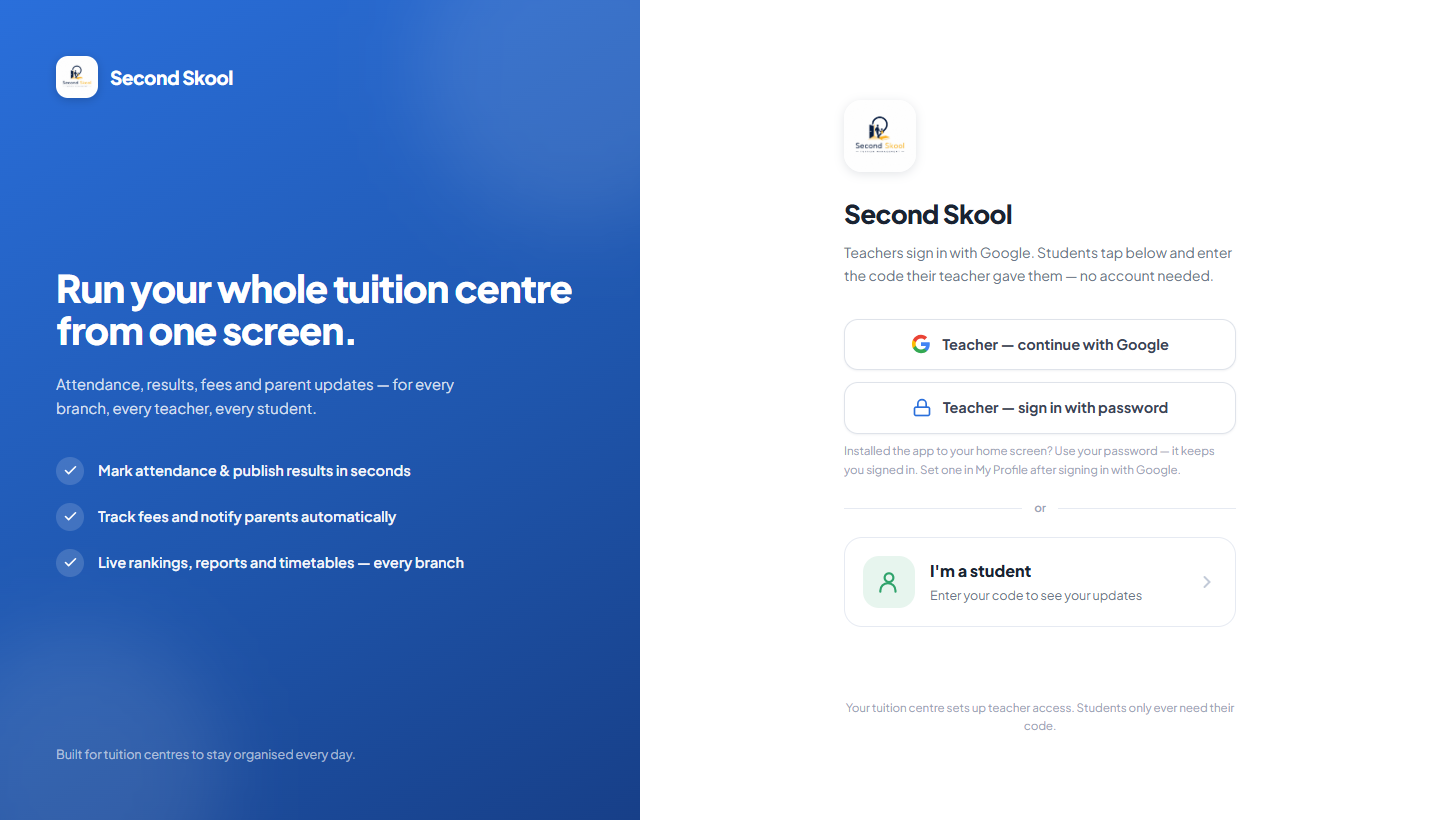
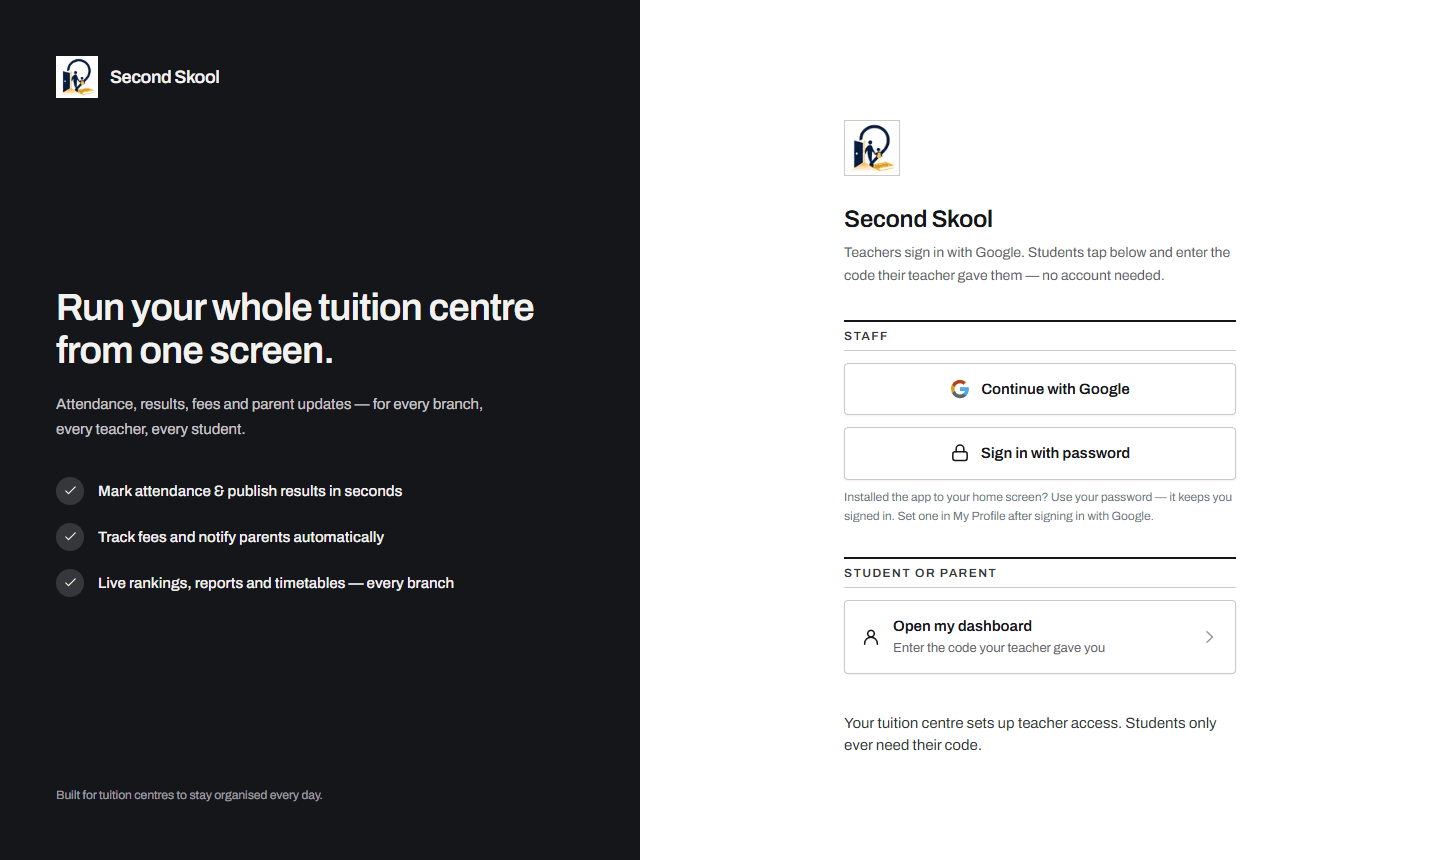
docs: the README shows the app as it looks now, including the parent dashboard
- The four screenshots were from the old blue UI. Sign-in, code entry and
  the desktop header are re-shot in the current look.
- New: what a parent sees after typing a code - home, attendance,
  results, ranking, fees and timetable. Real screens on a phone viewport,
  filled with sample data; no live database was touched.
- The 404 screenshot is gone; nobody chooses a tool for its 404 page.
- Images are palette-compressed: 9 screens weigh less than the old 4.

diff --git a/README.md b/README.md
@@ -66,13 +66,29 @@ Enters the private code their teacher gave them and instantly sees their attenda
 
 <div align="center">
 
-<img src="docs/screenshots/login.png" width="30%" alt="Sign in — teachers use Google, students use a code" />
+<img src="docs/screenshots/login.png" width="30%" alt="Sign in — staff use Google, students and parents use a code" />
 &nbsp;
 <img src="docs/screenshots/student-code.png" width="30%" alt="Student code entry" />
 &nbsp;
-<img src="docs/screenshots/404.png" width="30%" alt="Branded 404 page" />
+<img src="docs/screenshots/stu-home.png" width="30%" alt="Parent dashboard home — fee due, attendance and class rank" />
 
-<sub>Sign in · Student code entry · Branded 404 — real screenshots, mobile viewport</sub>
+<sub>Sign in · Code entry · Dashboard home</sub>
+
+<img src="docs/screenshots/stu-attendance.png" width="30%" alt="Attendance history, day by day" />
+&nbsp;
+<img src="docs/screenshots/stu-results.png" width="30%" alt="Test results with grades per subject" />
+&nbsp;
+<img src="docs/screenshots/stu-ranking.png" width="30%" alt="Subject ranking within the class" />
+
+<sub>Attendance · Results · Ranking</sub>
+
+<img src="docs/screenshots/stu-fees.png" width="30%" alt="Fees — next instalment and payment history" />
+&nbsp;
+<img src="docs/screenshots/stu-timetable.png" width="30%" alt="Weekly timetable" />
+
+<sub>Fees · Timetable</sub>
+
+<sub>What a parent sees after typing their child's code. Real app screens on a phone viewport, filled with sample data.</sub>
 
 </div>
 
